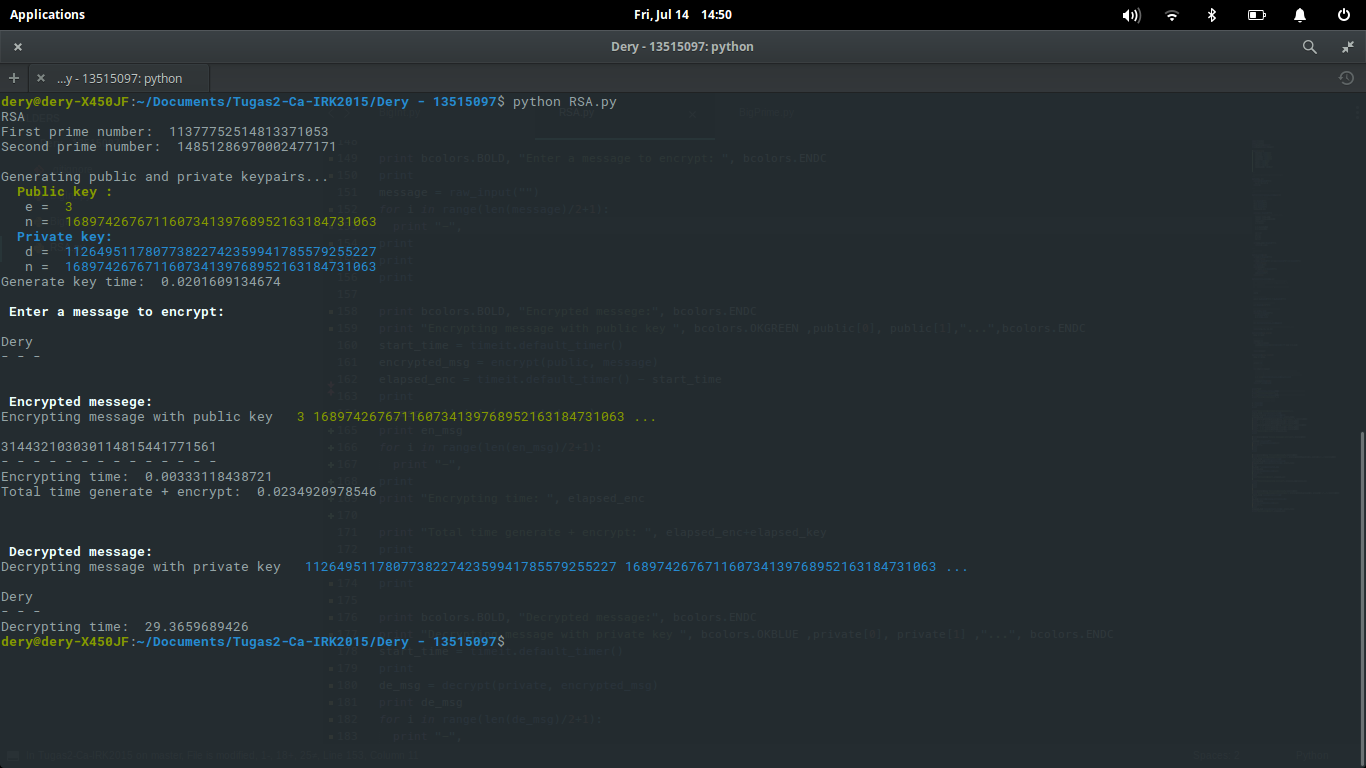
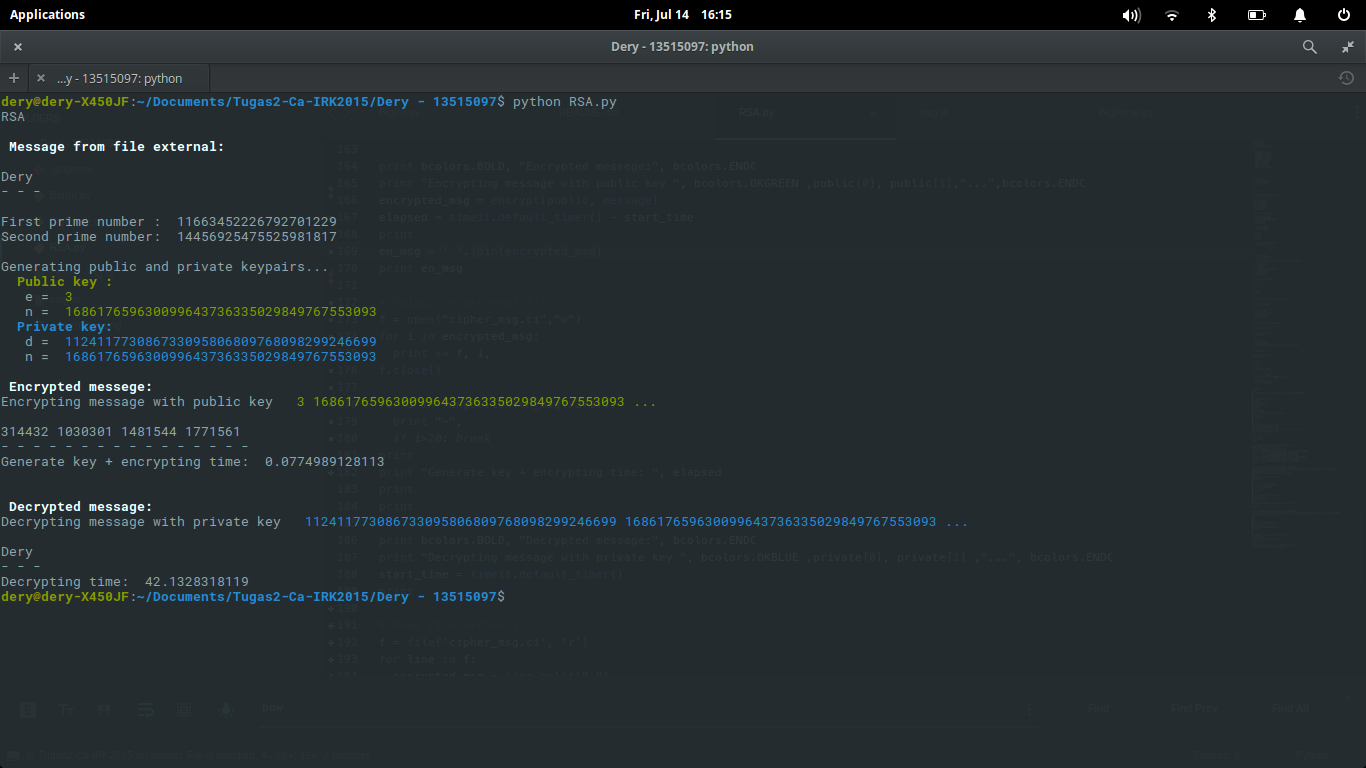
Read and write file external

diff --git a/Dery - 13515097/RSA.py b/Dery - 13515097/RSA.py
@@ -123,8 +123,25 @@ def decrypt(priv, cipher):
     
 
 print "RSA"
+print
+print bcolors.BOLD, "Message from file external:", bcolors.ENDC
+
+# Read file external
+f = file('msg.in', 'r')
+message=""
+for line in f:
+  message += line
+f.close()
+print
+print message
+for i in range((len(message)/2+1)%20):
+  print "-",
+  if i>20: break
+print
+print
+
 p = str(generate_large_prime(64)) # 2^64-1 is not Big Integer :)
-print "First prime number: ", p
+print "First prime number : ", p
 q = str(generate_large_prime(64)) # 2^64-1 is not Big Integer :)
 print "Second prime number: ", q
 # p = str(raw_input("1 :"))
@@ -136,40 +153,33 @@ print
 print "Generating public and private keypairs..."
 start_time = timeit.default_timer()
 public, private = generate_keypair(p, q)
-elapsed_key = timeit.default_timer() - start_time
 print bcolors.OKGREEN, bcolors.BOLD, "Public key : ", bcolors.ENDC
 print "   e =", bcolors.OKGREEN, public[0], bcolors.ENDC
 print "   n =", bcolors.OKGREEN, public[1], bcolors.ENDC
 print bcolors.OKBLUE, bcolors.BOLD, "Private key: ", bcolors.ENDC
 print "   d =", bcolors.OKBLUE, private[0], bcolors.ENDC
 print "   n =", bcolors.OKBLUE, private[1], bcolors.ENDC
-print "Generate key time: ", elapsed_key
-print
-
-print bcolors.BOLD, "Enter a message to encrypt: ", bcolors.ENDC
-print
-message = raw_input("")
-for i in range(len(message)/2+1):
-  print "-",
-print
-print
 print
 
 print bcolors.BOLD, "Encrypted messege:", bcolors.ENDC
 print "Encrypting message with public key ", bcolors.OKGREEN ,public[0], public[1],"...",bcolors.ENDC
-start_time = timeit.default_timer()
 encrypted_msg = encrypt(public, message)
-elapsed_enc = timeit.default_timer() - start_time
+elapsed = timeit.default_timer() - start_time
 print
-en_msg = ''.join(encrypted_msg)
+en_msg = ' '.join(encrypted_msg)
 print en_msg
-for i in range(len(en_msg)/2+1):
-  print "-",
-print
-print "Encrypting time: ", elapsed_enc
 
-print "Total time generate + encrypt: ", elapsed_enc+elapsed_key
+# Output to external file
+f = open("cipher_msg.ci","w")
+for i in encrypted_msg:
+  print >> f, i,
+f.close()
+
+for i in range((len(en_msg)/2+1)):
+  print "-",
+  if i>20: break
 print
+print "Generate key + encrypting time: ", elapsed
 print
 print
 
@@ -177,6 +187,14 @@ print bcolors.BOLD, "Decrypted message:", bcolors.ENDC
 print "Decrypting message with private key ", bcolors.OKBLUE ,private[0], private[1] ,"...", bcolors.ENDC
 start_time = timeit.default_timer()
 print
+
+# Read file external
+f = file('cipher_msg.ci', 'r')
+for line in f:
+  encrypted_msg = line.split(" ")
+f.close()
+
+# Decripting
 de_msg = decrypt(private, encrypted_msg)
 print de_msg
 for i in range(len(de_msg)/2+1):
